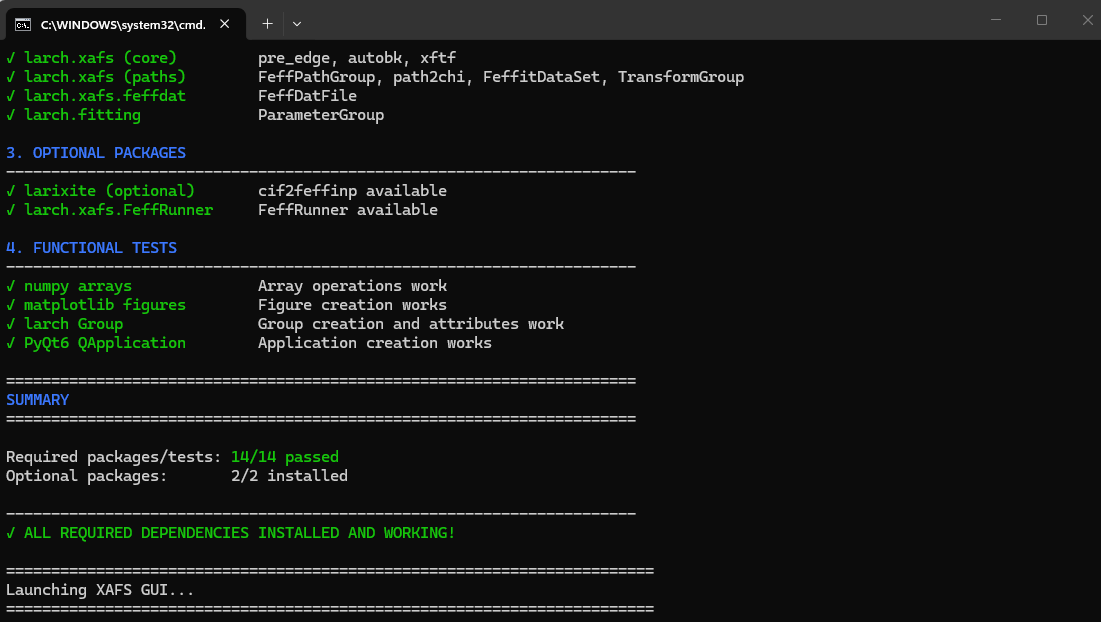
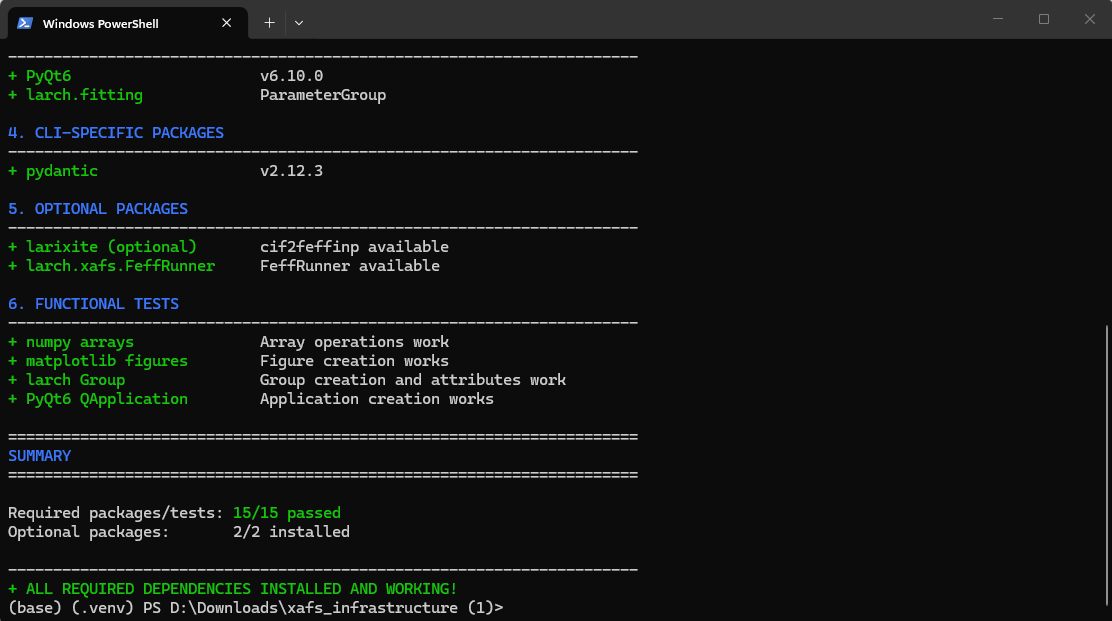
Added file tree to documentation

Changed region(s): [[0.0, 0.0, 0.5867, 1.0], [0.2162, 0.0612, 0.6794, 0.2142], [0.9882, 0.5201, 1.0, 0.9791]]

diff --git a/docs/getting-started/installation.md b/docs/getting-started/installation.md
@@ -40,6 +40,27 @@ Alternatively, activate the virtual environment manually and invoke the CLI modu
 python -m xafs_cli --help
 ```
 
+## File tree
+
+After running the scripts, your folder should look like this:
+
+![Folder](/img/tutorials/folder_tree.png)
+
+:::info
+The scripts are run in this order:
+
+1. **`setup.bat`** — sets up the Python environment (run once)
+2. **`update.bat`** — installs the GUI, CLI, or both (run to install or update)
+3. **`run_gui.bat`** — launches the GUI (run each time you want to open it)
+
+For the CLI, skip `run_gui.bat` and activate the environment directly:
+
+```cmd
+.\.venv\Scripts\activate.bat
+python -m xafs_cli --help
+```
+
+:::
 
 ## What the Setup Scripts Do
 
@@ -47,12 +68,12 @@ python -m xafs_cli --help
 |------|--------|
 | Check for `uv` | Downloads and installs `uv` if not found |
 | Create `.venv` | Creates a Python 3.11 virtual environment in the project directory |
-| Install dependencies | Installs all 184 required packages (numpy, scipy, larch, matplotlib, etc.) |
+| Install dependencies | Installs all required packages (numpy, scipy, larch, matplotlib, etc.) |
 | Verify installation | Runs a quick import check to confirm everything is working |
 
 When setup completes successfully, you will see all checks pass before the application launches:
 
-![Dependency check output — all 14/14 required packages pass](/img/tutorials/startup_dependency_check.png)
+![Dependency check output — all 15/15 required packages pass](/img/tutorials/startup_dependency_check.png)
 
 ## Troubleshooting
 
